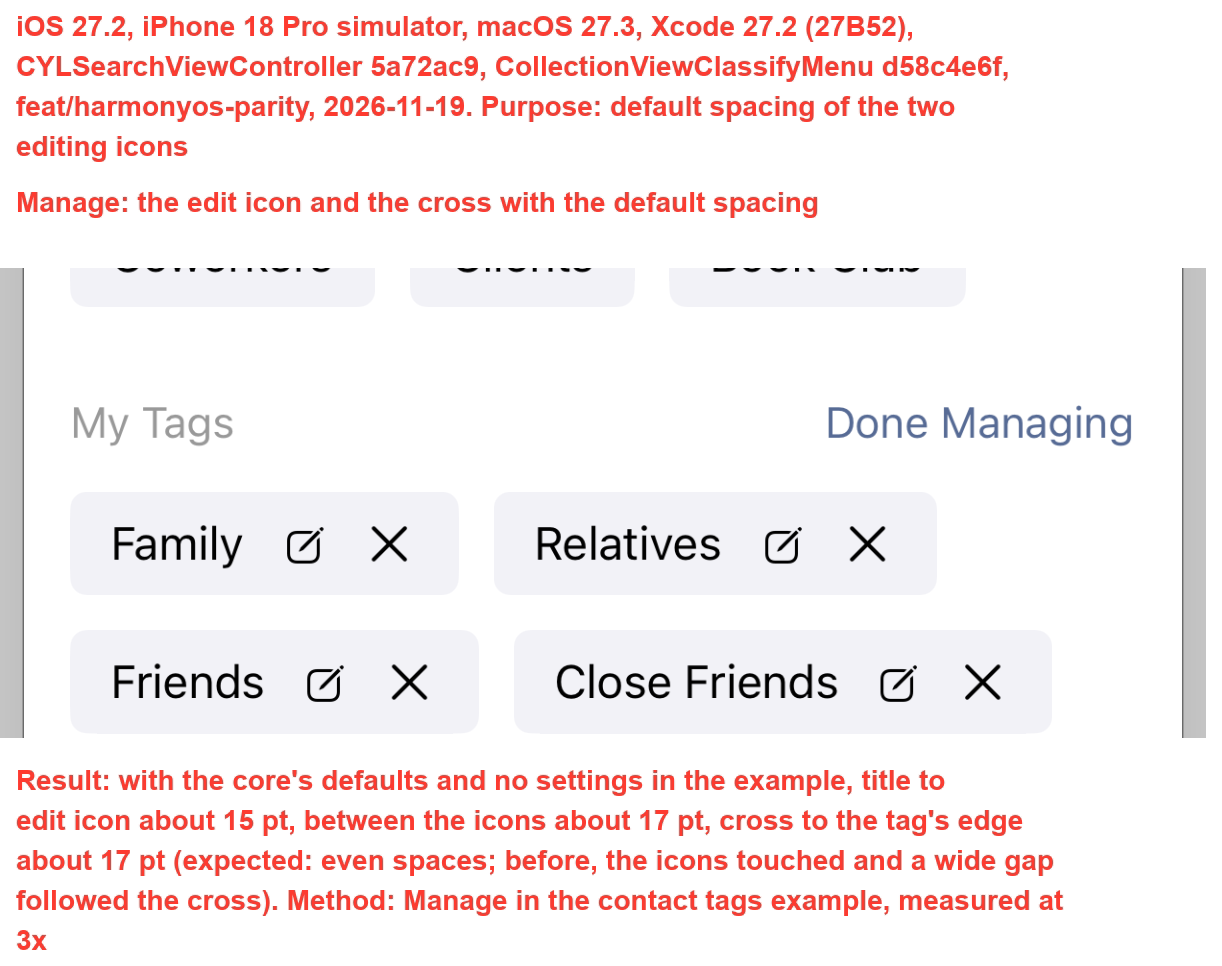
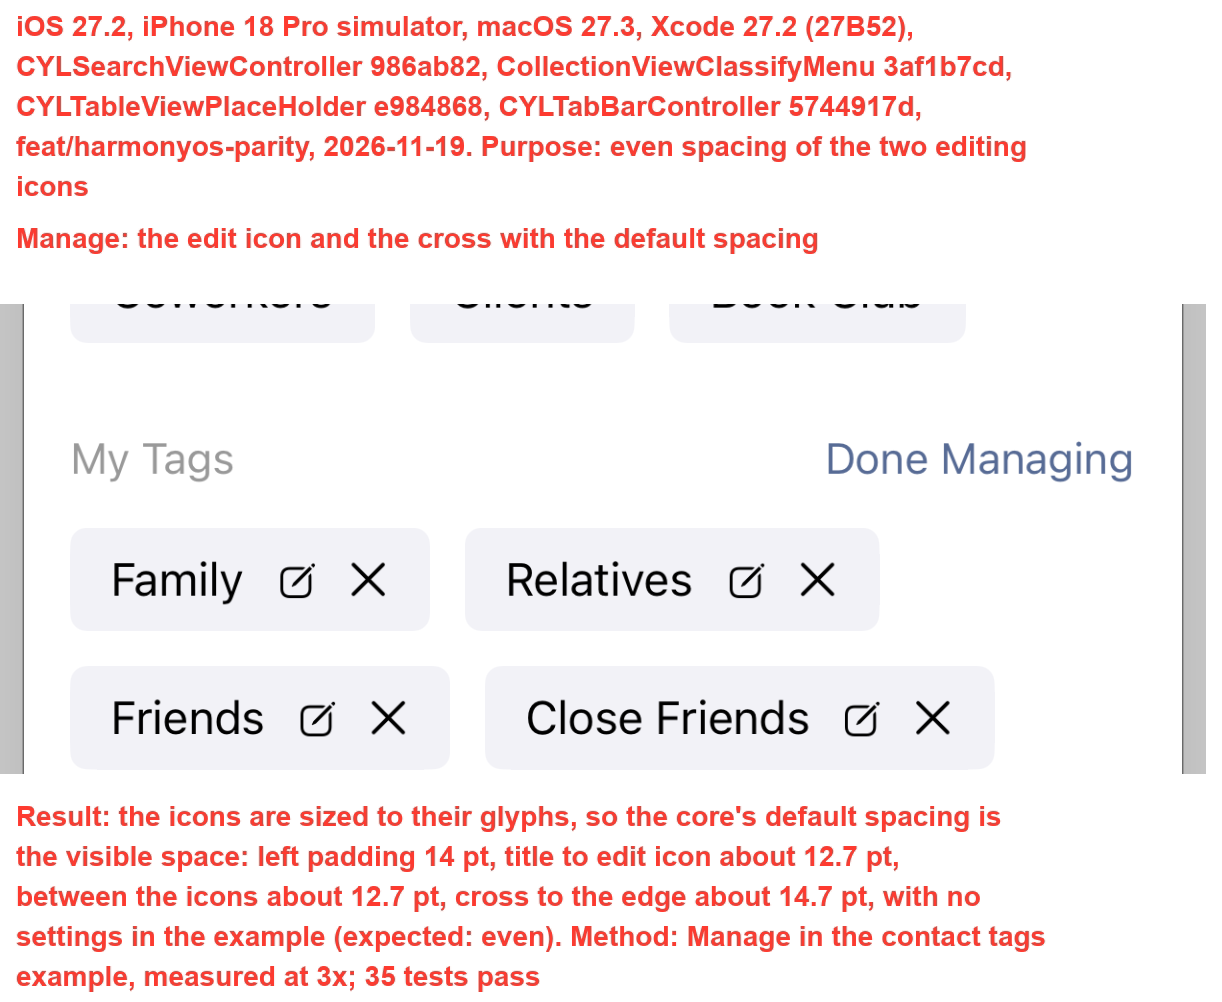
build(deps): ⬆ CollectionViewClassifyMenu 3af1b7cd, CYLTableViewPlaceHolder e984868
3af1b7cd sizes the editing icons to their glyphs, so the spaces around
the edit icon and the cross are even with the core's defaults (about
13 pt between, 14 to 15 pt at the ends). e984868 is the placeholder's
newest, on the same CYLTabBarController 5744917d. 35 tests pass;
Flutter and React Native iOS build.

By  @ChenYilong <luohanchenyilong@163.com>

Claude-Session: https://claude.ai/code/session_017y7XNzPUTD1qDqdiasqxb1

diff --git a/docs/CYLTabBarController-Integration.md b/docs/CYLTabBarController-Integration.md
@@ -531,8 +531,8 @@ Flutter 2503, 919, 833, 355, then 0.
   `menuRenameItem(at:to:)` (the id, place and contacts stay), and edits in the editing bar above the keyboard ("Add", or
   "Done" while renaming); cache A and the server (B) keep id and title (`saveItems`, `fetchItems`); the contacts page looks
   up contacts by id. Tests `testContactTagsRenameKeepsTheTagIDAndItsContacts`, `testEditingBarSubmitsAndRidesOnTheKeyboard`;
-  35 tests pass; Flutter and React Native iOS build. Pins on every platform: CollectionViewClassifyMenu `d58c4e6f`,
-  CYLTableViewPlaceHolder `d19120f`, CYLTabBarController `5996fa96`
+  35 tests pass; Flutter and React Native iOS build. Pins on every platform: CollectionViewClassifyMenu `3af1b7cd`,
+  CYLTableViewPlaceHolder `e984868`, CYLTabBarController `5744917d`
   ([assets/ios-iphone18pro-20261119-contact-tags-rename.png](assets/ios-iphone18pro-20261119-contact-tags-rename.png), iOS 27.2, iPhone 18 Pro simulator, macOS 27.3, Xcode 27.2 (27B52), 2026-11-19).
   In "Manage", a tap on a tag's title renames it; a tap on the rest of the tag (its padding) still opens its contacts.
   Follow-ups (verbatim): "recent右上角的删除图标应直接调用CollectView组件原有的自定义接口，这个属于已经封装好的，删除图标样式icon在其内部资源包已经内置，如果没有内置，增加该资源，且暴露接口直接在右上角添加删除按钮以及自定义点击事件回调，且新增限制，该图标顶部与底部应与左侧元素顶部 底部对齐。更新CollectView组件增加该限制，完成CollectView组件core代码后repin commit继续完成example";
@@ -542,7 +542,8 @@ Flutter 2503, 919, 833, 355, then 0.
   example's own button is gone); the icon is a file in the folder bundle `CYLClassifyMenuImages.bundle` (`7d84d709`);
   the edit icon and the cross are evenly spaced by the core's defaults, with no settings here (`d58c4e6f`; user,
   verbatim: "tag 的编辑状态下 CYlAnimated StackView右侧间距过大，item 间距过小，直接调整自定义间距实现，完成合适间距默认值，在本example中无须修改自定义间距就可实现合理间距效果。修改CYlAnimated StackView 代码后 repin无须修改example，测试效果。效果不佳继续修改。修改CYlAnimated StackView 代码后 repin无须修改example，测试效果";
-  title to edit icon about 15 pt, between the icons about 17 pt, cross to the edge about 17 pt:
+  then, after "space is not good enough continue fix", icons sized to their glyphs (`3af1b7cd`): left padding 14 pt,
+  title to edit icon about 12.7 pt, between the icons about 12.7 pt, cross to the edge about 14.7 pt:
   [assets/ios-iphone18pro-20261119-contact-tags-editing-icons-spacing.png](assets/ios-iphone18pro-20261119-contact-tags-editing-icons-spacing.png));
   the add field is the same editing bar as renaming, riding on the keyboard
   ([assets/ios-iphone18pro-20261119-contact-tags-clear-add-bar.png](assets/ios-iphone18pro-20261119-contact-tags-clear-add-bar.png), iOS 27.2, iPhone 18 Pro simulator, macOS 27.3, Xcode 27.2 (27B52), 2026-11-19).

diff --git a/docs/sub-repositories.md b/docs/sub-repositories.md
@@ -186,3 +186,8 @@ Sibling projects in the same local folder that this library uses. Rules: `AGENTS
   native, Flutter and React Native apps; 35 tests pass; Flutter and React Native iOS build. Android, HarmonyOS and the
   mini program: asked of the Windows session (CollectionViewClassifyMenu's own HarmonyOS HAP was not fully built there,
   disk full; host tests 71 of 71).
+
+- **CollectionViewClassifyMenu `3af1b7cd` and CYLTableViewPlaceHolder `e984868` (2026-11-19)**, both at CYLTabBarController
+  `5744917d`, pinned on every platform: `3af1b7cd` sizes the editing icons to their glyphs (even spacing);
+  `e984868` is CYLTableViewPlaceHolder's newest, on the same tab bar commit. iOS: pod install for the three apps; 35 tests
+  pass; Flutter and React Native iOS build.
